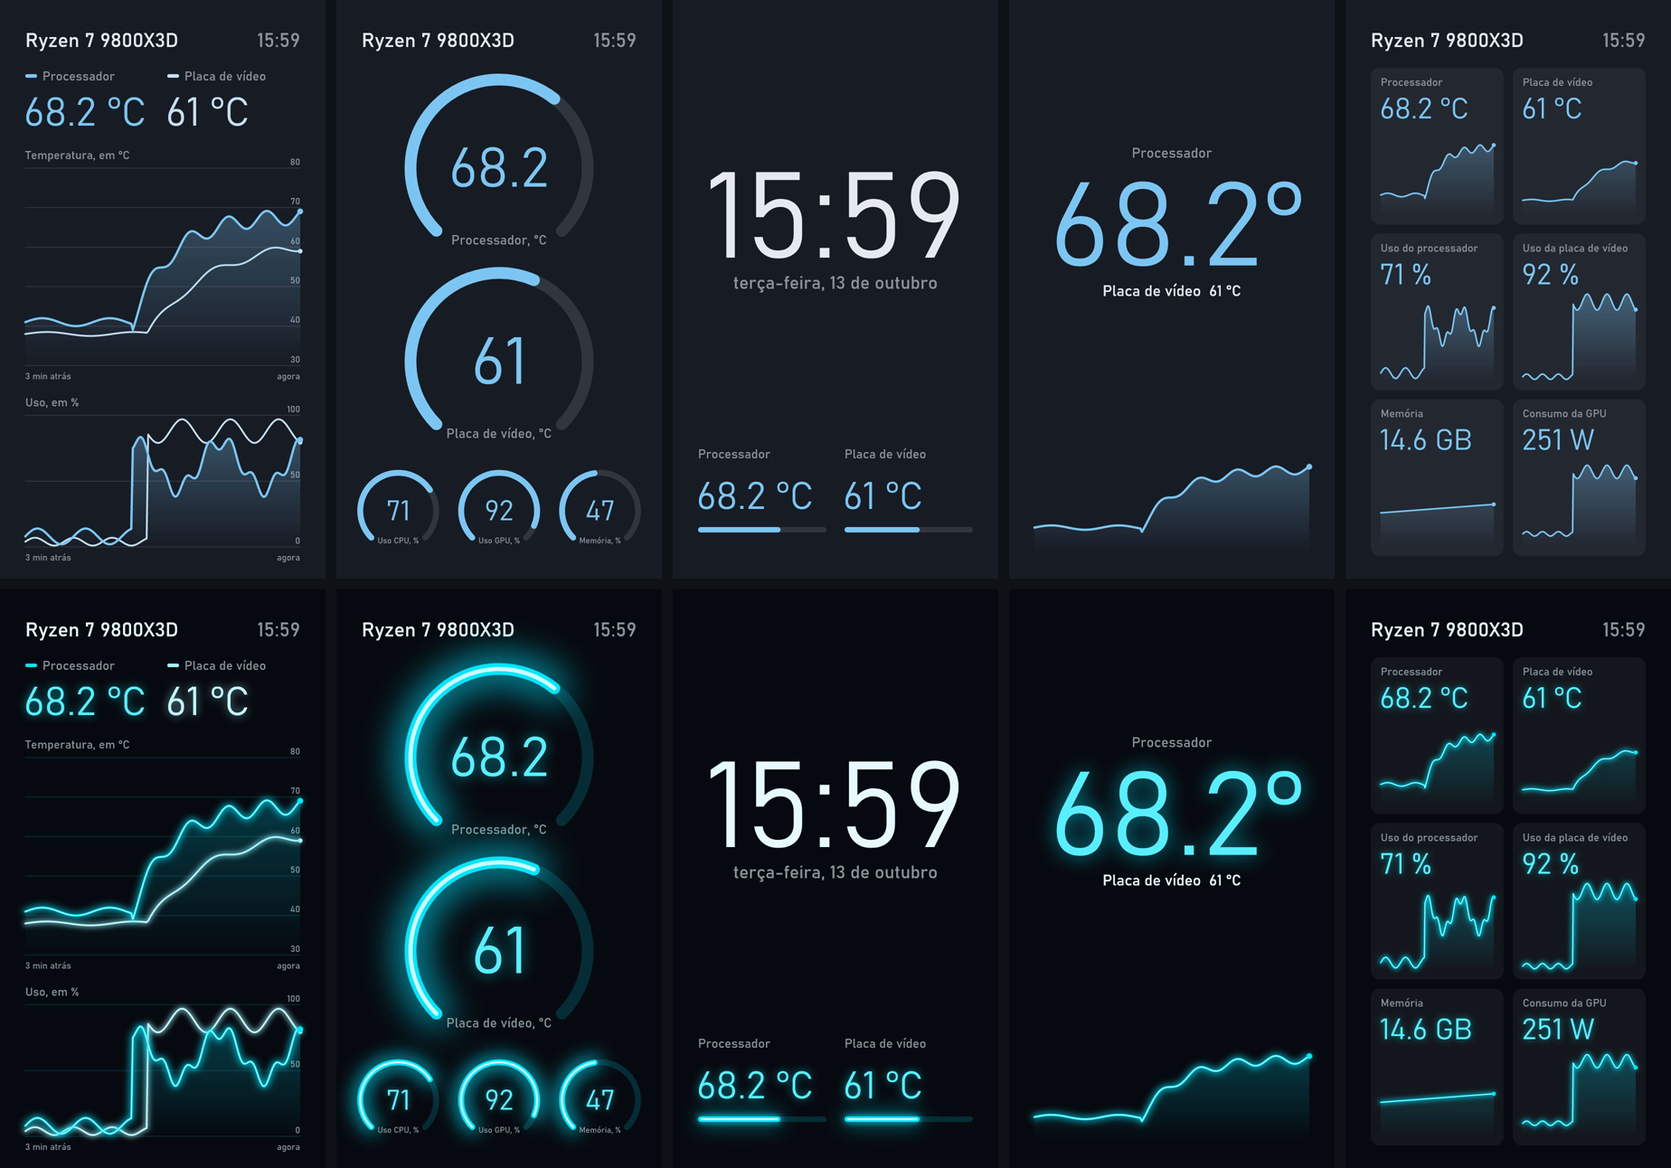
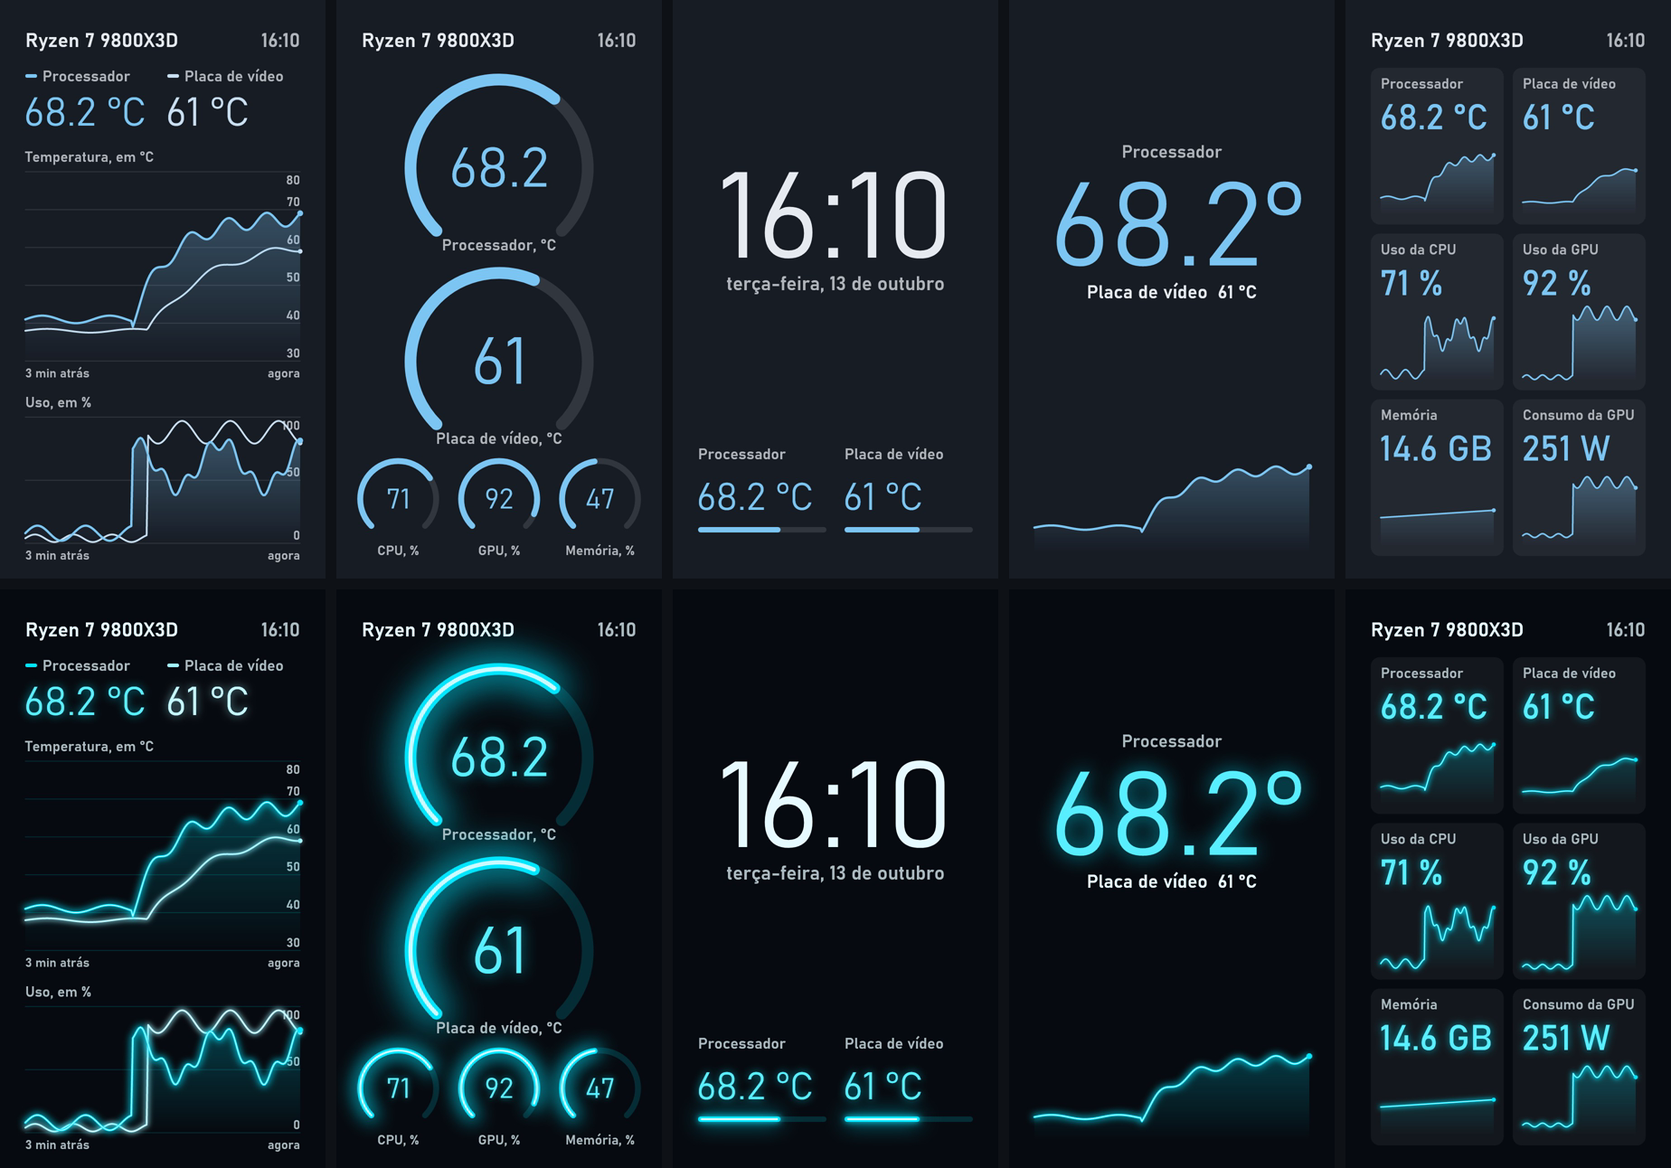
Tela: letras pequenas maiores, mais grossas e com mais contraste
Rotulos e valores pequenos de todas as paginas cresceram cerca de 30 %, passam
a usar o peso SemiBold abaixo de 46 px e a cor dos rotulos ficou mais perto da
do texto. Nos medidores pequenos o rotulo foi para baixo do arco. Quadros
parados vao em JPEG de qualidade 95.

diff --git a/app/Services/LcdRendererStyles.cs b/app/Services/LcdRendererStyles.cs
@@ -93,7 +93,7 @@ public sealed partial class LcdRenderer
         DrawLegendValue(canvas, Margin, 150, "Processador", FormatTemperature(sensors.CpuTemperature, 1) + " °C", cpuColor);
         DrawLegendValue(canvas, Margin + half + 10, 150, "Placa de vídeo", FormatTemperature(sensors.Gpu.Temperature, 0) + " °C", gpuColor);
 
-        float top = 372, bottom = h - 70;
+        float top = 380, bottom = h - 78;
         SKRect temps, loads;
         // Sem altura para empilhar (tela deitada ou quadrada), os dois gráficos ficam lado a lado.
         if (wide || h < 1000)
@@ -104,19 +104,19 @@ public sealed partial class LcdRenderer
         }
         else
         {
-            const float gap = 110;
+            const float gap = 124;
             float middle = top + (bottom - top - gap) * 0.6f;
             temps = new SKRect(Margin, top, right, middle);
             loads = new SKRect(Margin, middle + gap, right, bottom);
         }
 
         (float min, float max) = TemperatureRange(history);
-        DrawText(canvas, "Temperatura, em °C", temps.Left, temps.Top - 20, 26, _muted, _regular);
+        DrawText(canvas, "Temperatura, em °C", temps.Left, temps.Top - 22, 32, _muted, _regular);
         DrawChartFrame(canvas, temps, min, max, max - min > 60 ? 20 : 10);
         DrawSeries(canvas, temps, history.GpuTemp, min, max, gpuColor, 4, fill: false);
         DrawSeries(canvas, temps, history.CpuTemp, min, max, cpuColor, 5, fill: true);
 
-        DrawText(canvas, "Uso, em %", loads.Left, loads.Top - 20, 26, _muted, _regular);
+        DrawText(canvas, "Uso, em %", loads.Left, loads.Top - 22, 32, _muted, _regular);
         DrawChartFrame(canvas, loads, 0, 100, 50);
         DrawSeries(canvas, loads, history.GpuLoad, 0, 100, gpuColor, 4, fill: false);
         DrawSeries(canvas, loads, history.CpuLoad, 0, 100, _accent, 5, fill: true);
@@ -127,7 +127,7 @@ public sealed partial class LcdRenderer
         // A pastilha na cor da linha liga o número à série do gráfico.
         _paint.Color = color;
         canvas.DrawRoundRect(x, top + 14, 26, 8, 4, 4, _paint);
-        DrawText(canvas, label, x + 38, top + 28, 28, _muted, _regular);
+        DrawText(canvas, label, x + 38, top + 30, 34, _muted, _regular);
         DrawText(canvas, value, x - 3, top + 128, 88, color, _light);
     }
 
@@ -168,11 +168,17 @@ public sealed partial class LcdRenderer
         {
             float y = area.Bottom - area.Height * (value - min) / (max - min);
             canvas.DrawLine(area.Left, y, area.Right, y, _stroke);
-            DrawText(canvas, value.ToString("0", CultureInfo.InvariantCulture), area.Right, y - 7, 20, _muted, _regular, SKTextAlign.Right);
+            // O valor fica em cima da linha; o da linha do topo, embaixo, para não encostar no título.
+            bool isTop = value + step > max + 0.01f;
+            float baseline = isTop ? y + 28 : y - 8;
+            // Em gráfico baixo, o valor do topo cairia em cima do da linha seguinte: fica sem.
+            if (isTop && area.Height * step / (max - min) < 60)
+                continue;
+            DrawText(canvas, value.ToString("0", CultureInfo.InvariantCulture), area.Right, baseline, 28, _muted, _regular, SKTextAlign.Right);
         }
 
-        DrawText(canvas, "3 min atrás", area.Left, area.Bottom + 30, 20, _muted, _regular);
-        DrawText(canvas, "agora", area.Right, area.Bottom + 30, 20, _muted, _regular, SKTextAlign.Right);
+        DrawText(canvas, "3 min atrás", area.Left, area.Bottom + 36, 28, _muted, _regular);
+        DrawText(canvas, "agora", area.Right, area.Bottom + 36, 28, _muted, _regular, SKTextAlign.Right);
     }
 
     /// <summary>
@@ -275,7 +281,7 @@ public sealed partial class LcdRenderer
             // Em pé: os dois medidores grandes um embaixo do outro.
             DrawGauge(canvas, w / 2, 372, 196, 26, cpuFraction, cpuColor, FormatTemperature(sensors.CpuTemperature, 1), "Processador, °C");
             DrawGauge(canvas, w / 2, 800, 196, 26, gpuFraction, gpuColor, FormatTemperature(gpu.Temperature, 0), "Placa de vídeo, °C");
-            smallY = h - 150;
+            smallY = h - 176;
             smallRadius = 84;
         }
         else
@@ -284,21 +290,24 @@ public sealed partial class LcdRenderer
             float y = 150 + radius;
             DrawGauge(canvas, w * 0.28f, y, radius, 22, cpuFraction, cpuColor, FormatTemperature(sensors.CpuTemperature, 1), "Processador, °C");
             DrawGauge(canvas, w * 0.72f, y, radius, 22, gpuFraction, gpuColor, FormatTemperature(gpu.Temperature, 0), "Placa de vídeo, °C");
-            smallRadius = Math.Min(64, (h - y - radius - 40) / 2.1f);
-            smallY = h - 40 - smallRadius;
+            smallRadius = Math.Min(64, (h - y - radius - 90) / 2.1f);
+            smallY = h - 72 - smallRadius;
         }
 
         float? ram = sensors.RamUsedGb / sensors.RamTotalGb;
-        DrawGauge(canvas, w * 0.19f, smallY, smallRadius, 13, sensors.CpuLoad / 100, _accent, Number(sensors.CpuLoad), "Uso CPU, %");
-        DrawGauge(canvas, w * 0.5f, smallY, smallRadius, 13, gpu.Load / 100, _accent, Number(gpu.Load), "Uso GPU, %");
-        DrawGauge(canvas, w * 0.81f, smallY, smallRadius, 13, ram, _accent, Number(ram * 100), "Memória, %");
+        DrawGauge(canvas, w * 0.19f, smallY, smallRadius, 13, sensors.CpuLoad / 100, _accent, Number(sensors.CpuLoad), "CPU, %", labelBelow: true);
+        DrawGauge(canvas, w * 0.5f, smallY, smallRadius, 13, gpu.Load / 100, _accent, Number(gpu.Load), "GPU, %", labelBelow: true);
+        DrawGauge(canvas, w * 0.81f, smallY, smallRadius, 13, ram, _accent, Number(ram * 100), "Memória, %", labelBelow: true);
     }
 
     private static string Number(float? value) => value is float v && !float.IsNaN(v) ? v.ToString("0", CultureInfo.InvariantCulture) : "—";
 
-    /// <summary>Medidor em arco de 270°, com o valor no meio e o rótulo na abertura de baixo.</summary>
+    /// <summary>
+    /// Medidor em arco de 270°, com o valor no meio. O rótulo vai na abertura de baixo do arco; nos
+    /// medidores pequenos ele não caberia ali em tamanho legível e vai embaixo do medidor.
+    /// </summary>
     private void DrawGauge(SKCanvas canvas, float cx, float cy, float radius, float thickness, float? fraction,
-        SKColor color, string value, string label)
+        SKColor color, string value, string label, bool labelBelow = false)
     {
         var box = new SKRect(cx - radius, cy - radius, cx + radius, cy + radius);
         using (var track = new SKPath())
@@ -318,7 +327,10 @@ public sealed partial class LcdRenderer
 
         float size = radius * (value.Length > 3 ? 0.62f : 0.74f);
         DrawText(canvas, value, cx, cy + size * 0.34f, size, color, _light, SKTextAlign.Center);
-        DrawText(canvas, label, cx, cy + radius * 0.86f, Math.Max(18, radius * 0.15f), _muted, _regular, SKTextAlign.Center);
+        if (labelBelow)
+            DrawText(canvas, label, cx, cy + radius + 40, 30, _muted, _regular, SKTextAlign.Center);
+        else
+            DrawText(canvas, label, cx, cy + radius * 0.93f, Math.Max(30, radius * 0.18f), _muted, _regular, SKTextAlign.Center);
     }
 
     // ---------- Relógio ----------
@@ -336,7 +348,7 @@ public sealed partial class LcdRenderer
         // A hora na cor do texto: aqui ela é o assunto, e a cor de destaque fica para as temperaturas.
         DrawText(canvas, content.Time.ToString("HH:mm"), w / 2, baseline, size, _text, _light, SKTextAlign.Center);
         string date = content.Time.ToString("dddd, d 'de' MMMM", Portuguese);
-        DrawText(canvas, date, w / 2, baseline + Math.Max(54, size * 0.26f), Math.Max(30, size * 0.15f), _muted, _regular, SKTextAlign.Center);
+        DrawText(canvas, date, w / 2, baseline + Math.Max(58, size * 0.27f), Math.Max(38, size * 0.16f), _muted, _regular, SKTextAlign.Center);
 
         float top = h - block, half = (w - 2 * Margin - 40) / 2;
         DrawClockTemperature(canvas, Margin, top, half, "Processador", sensors.CpuTemperature, 1,
@@ -349,8 +361,8 @@ public sealed partial class LcdRenderer
         int decimals, float warm, float hot, float max)
     {
         SKColor color = TemperatureColor(temperature, warm, hot);
-        DrawText(canvas, label, x, top + 34, 28, _muted, _regular);
-        DrawText(canvas, FormatTemperature(temperature, decimals) + " °C", x - 3, top + 146, 84, color, _light);
+        DrawText(canvas, label, x, top + 36, 34, _muted, _regular);
+        DrawText(canvas, FormatTemperature(temperature, decimals) + " °C", x - 3, top + 148, 84, color, _light);
         float? fraction = temperature is float t ? Math.Max(0.02f, (t - 20) / (max - 20)) : null;
         DrawBar(canvas, x, top + 186, width, 12, fraction, color);
     }
@@ -367,10 +379,10 @@ public sealed partial class LcdRenderer
         float size = Math.Min(w * 0.36f, free * 0.5f);
         float baseline = free * 0.52f + size * 0.34f;
 
-        DrawText(canvas, "Processador", w / 2, baseline - size * 0.92f, Math.Max(30, size * 0.12f), _muted, _regular, SKTextAlign.Center);
+        DrawText(canvas, "Processador", w / 2, baseline - size * 0.92f, Math.Max(38, size * 0.15f), _muted, _regular, SKTextAlign.Center);
         DrawText(canvas, FormatTemperature(sensors.CpuTemperature, 1) + "°", w / 2 + size * 0.05f, baseline, size, color, _light, SKTextAlign.Center);
         string gpu = "Placa de vídeo  " + FormatTemperature(sensors.Gpu.Temperature, 0) + " °C";
-        DrawText(canvas, gpu, w / 2, baseline + Math.Max(60, size * 0.26f), Math.Max(32, size * 0.13f), _text, _regular, SKTextAlign.Center);
+        DrawText(canvas, gpu, w / 2, baseline + Math.Max(66, size * 0.28f), Math.Max(40, size * 0.16f), _text, _regular, SKTextAlign.Center);
 
         // Só a linha, sem grade nem eixo: mostra para onde a temperatura está indo.
         (float min, float max) = TemperatureRange(history);
@@ -397,8 +409,8 @@ public sealed partial class LcdRenderer
                 TemperatureColor(sensors.CpuTemperature, _temps.CpuWarm, _temps.CpuHot)),
             ("Placa de vídeo", FormatTemperature(gpu.Temperature, 0) + " °C", history.GpuTemp, min, max,
                 TemperatureColor(gpu.Temperature, _temps.GpuWarm, _temps.GpuHot)),
-            ("Uso do processador", Percent(sensors.CpuLoad), history.CpuLoad, 0, 100, _accent),
-            ("Uso da placa de vídeo", Percent(gpu.Load), history.GpuLoad, 0, 100, _accent),
+            ("Uso da CPU", Percent(sensors.CpuLoad), history.CpuLoad, 0, 100, _accent),
+            ("Uso da GPU", Percent(gpu.Load), history.GpuLoad, 0, 100, _accent),
             ("Memória", sensors.RamUsedGb is float used ? string.Create(CultureInfo.InvariantCulture, $"{used:0.0} GB") : "—",
                 history.Ram, 0, 100, _accent),
             ("Consumo da GPU", gpu.Watts is float now ? $"{now:0} W" : "—", history.GpuWatts, 0, watts, _accent),
@@ -418,12 +430,16 @@ public sealed partial class LcdRenderer
             _paint.Color = tileColor;
             canvas.DrawRoundRect(x, y, tileWidth, tileHeight, 20, 20, _paint);
 
-            float valueSize = Math.Min(64, tileHeight * 0.24f);
-            DrawText(canvas, tile.Label, x + 22, y + 40, 24, _muted, _regular);
-            DrawText(canvas, tile.Value, x + 20, y + 48 + valueSize, valueSize, tile.Color, _light);
+            // Rótulo e valor em tamanho de leitura; o minigráfico fica com o que sobra.
+            float valueSize = Math.Min(78, tileHeight * 0.26f);
+            DrawText(canvas, tile.Label, x + 22, y + 46, 32, _muted, _regular);
+            DrawText(canvas, tile.Value, x + 20, y + 58 + valueSize, valueSize, tile.Color, _regular);
 
-            var area = new SKRect(x + 22, y + 64 + valueSize, x + tileWidth - 22, y + tileHeight - 22);
-            if (area.Height > 24)
+            var area = new SKRect(x + 22, y + 78 + valueSize, x + tileWidth - 22, y + tileHeight - 22);
+            // Bloco baixo: não sobra altura embaixo do valor, então o minigráfico vai ao lado dele.
+            if (area.Height < 44)
+                area = new SKRect(x + tileWidth * 0.62f, y + 66, x + tileWidth - 22, y + tileHeight - 22);
+            if (area.Height > 20)
                 DrawSeries(canvas, area, tile.Series, tile.Min, tile.Max, tile.Color, 3.5f, fill: true);
         }
     }

diff --git a/app/Services/LcdRenderer.cs b/app/Services/LcdRenderer.cs
@@ -117,6 +117,9 @@ public sealed partial class LcdRenderer : IDisposable
     // Placas de vídeo costumam se limitar perto de 90 °C; o limite do processador vem no conteúdo.
     private const float GpuMax = 90;
 
+    // Abaixo deste tamanho o texto é desenhado em peso maior, para ler à distância.
+    private const float SmallText = 46;
+
     // Avisos de temperatura não seguem o tema: precisam continuar reconhecíveis. Em fundo claro
     // usam versões mais escuras, senão o laranja some.
     private static readonly SKColor EmberOnDark = SKColor.Parse("#F59A3C"), CriticalOnDark = SKColor.Parse("#F0605A");
@@ -136,6 +139,9 @@ public sealed partial class LcdRenderer : IDisposable
     private readonly SKTypeface _regular = SKTypeface.FromFamilyName("Bahnschrift", SKFontStyle.Normal);
     private readonly SKTypeface _light = SKTypeface.FromFamilyName("Bahnschrift",
         SKFontStyleWeight.Light, SKFontStyleWidth.Normal, SKFontStyleSlant.Upright);
+    // Texto pequeno vai em peso maior: de longe, traço fino some antes de letra pequena.
+    private readonly SKTypeface _semibold = SKTypeface.FromFamilyName("Bahnschrift",
+        SKFontStyleWeight.SemiBold, SKFontStyleWidth.Normal, SKFontStyleSlant.Upright);
     private readonly SKPaint _paint = new() { IsAntialias = true };
 
     private SKColor _text, _accent, _muted, _track;
@@ -166,7 +172,7 @@ public sealed partial class LcdRenderer : IDisposable
         _accent = new SKColor(style.Theme.Accent);
         _neon = style.Theme.Neon;
         // Em fundo claro os rótulos precisam ficar mais perto da cor do texto para dar leitura.
-        _muted = Blend(background, _text, light ? 0.72f : 0.58f);
+        _muted = Blend(background, _text, light ? 0.8f : 0.74f);
         _track = Blend(background, _text, 0.13f);
         // Tubo apagado: quase some no fundo, com um resto da cor do tema.
         if (_neon)
@@ -284,9 +290,10 @@ public sealed partial class LcdRenderer : IDisposable
                 canvas.Save();
                 canvas.Translate(0, 150);
                 canvas.Scale(0.5f);
-                DrawCpuTemperature(canvas, content, 0);
+                // Desenhadas pela metade: o rótulo vai maior, para não ficar ilegível.
+                DrawCpuTemperature(canvas, content, 0, labelSize: 66);
                 canvas.Translate(ColumnWidth, 0);
-                DrawGpuTemperature(canvas, sensors.Gpu, 0);
+                DrawGpuTemperature(canvas, sensors.Gpu, 0, labelSize: 66);
                 canvas.Restore();
 
                 if (page == LcdPage.Curve)
@@ -309,11 +316,11 @@ public sealed partial class LcdRenderer : IDisposable
         canvas.Restore();
     }
 
-    private void DrawCpuTemperature(SKCanvas canvas, LcdContent content, float top) =>
-        DrawBigTemperature(canvas, "Processador", content.Sensors.CpuTemperature, top, decimals: 1, _temps.CpuWarm, _temps.CpuHot, content.CpuLimit);
+    private void DrawCpuTemperature(SKCanvas canvas, LcdContent content, float top, float labelSize = 38) =>
+        DrawBigTemperature(canvas, "Processador", content.Sensors.CpuTemperature, top, decimals: 1, _temps.CpuWarm, _temps.CpuHot, content.CpuLimit, labelSize);
 
-    private void DrawGpuTemperature(SKCanvas canvas, GpuReading gpu, float top) =>
-        DrawBigTemperature(canvas, "Placa de vídeo", gpu.Temperature, top, decimals: 0, _temps.GpuWarm, _temps.GpuHot, GpuMax);
+    private void DrawGpuTemperature(SKCanvas canvas, GpuReading gpu, float top, float labelSize = 38) =>
+        DrawBigTemperature(canvas, "Placa de vídeo", gpu.Temperature, top, decimals: 0, _temps.GpuWarm, _temps.GpuHot, GpuMax, labelSize);
 
     /// <summary>As linhas de sensores a partir de <paramref name="top"/>, quantas couberem até <paramref name="bottom"/>.</summary>
     private void DrawSensorRows(SKCanvas canvas, SensorSnapshot sensors, float top, float bottom)
@@ -339,10 +346,11 @@ public sealed partial class LcdRenderer : IDisposable
     }
 
     private void DrawBigTemperature(SKCanvas canvas, string label, float? temperature, float top,
-        int decimals, float warm, float hot, float max)
+        int decimals, float warm, float hot, float max, float labelSize = 38)
     {
         SKColor color = TemperatureColor(temperature, warm, hot);
-        DrawText(canvas, label, Left, top + 34, 32, _muted, _regular);
+        // Rótulo maior sobe um pouco, para não encostar no número.
+        DrawText(canvas, label, Left, top + 36 - (labelSize - 38) * 0.6f, labelSize, _muted, _regular);
 
         const float size = 190;
         string value = FormatTemperature(temperature, decimals);
@@ -360,8 +368,8 @@ public sealed partial class LcdRenderer : IDisposable
 
     private void DrawSensorRow(SKCanvas canvas, ref float y, string label, string value, float? fraction)
     {
-        DrawText(canvas, label, Left, y, 28, _muted, _regular);
-        DrawText(canvas, value, Right, y, 34, _text, _regular, SKTextAlign.Right);
+        DrawText(canvas, label, Left, y, 36, _muted, _regular);
+        DrawText(canvas, value, Right, y, 42, _text, _regular, SKTextAlign.Right);
         if (fraction is not null)
             DrawBar(canvas, Left, y + 20, Right - Left, 10, fraction, _accent);
         y += 104;
@@ -374,15 +382,15 @@ public sealed partial class LcdRenderer : IDisposable
         float min = content.MarginMin, max = CpuTuner.MaxMargin;
 
         DrawText(canvas, "Curve Optimizer", Left, top, 40, _text, _regular);
-        DrawText(canvas, "margem", marginRight, top, 26, _muted, _regular, SKTextAlign.Right);
-        DrawText(canvas, "MHz", Right, top, 26, _muted, _regular, SKTextAlign.Right);
+        DrawText(canvas, "margem", marginRight, top, 32, _muted, _regular, SKTextAlign.Right);
+        DrawText(canvas, "MHz", Right, top, 32, _muted, _regular, SKTextAlign.Right);
 
         int count = content.Margins.Length;
         if (count == 0)
             return;
 
         float rowHeight = Math.Min(98, Math.Max(10, available - 30) / count);
-        float fontSize = Math.Min(44, rowHeight * 0.5f);
+        float fontSize = Math.Min(44, rowHeight * 0.62f);
         float thickness = Math.Min(14, rowHeight * 0.2f);
         float zero = barLeft + (barRight - barLeft) * (0 - min) / (max - min);
 
@@ -455,7 +463,7 @@ public sealed partial class LcdRenderer : IDisposable
     private void DrawSmallTemperature(SKCanvas canvas, string label, float? temperature, float x,
         int decimals, float warm, float hot)
     {
-        DrawText(canvas, label, x, 180, 28, _muted, _regular);
+        DrawText(canvas, label, x, 180, 34, _muted, _regular);
         DrawText(canvas, FormatTemperature(temperature, decimals) + " °C", x - 3, 262, 78, TemperatureColor(temperature, warm, hot), _light);
     }
 
@@ -508,6 +516,9 @@ public sealed partial class LcdRenderer : IDisposable
     private void DrawText(SKCanvas canvas, string text, float x, float y, float size, SKColor color,
         SKTypeface typeface, SKTextAlign align = SKTextAlign.Left)
     {
+        if (ReferenceEquals(typeface, _regular) && size < SmallText)
+            typeface = _semibold;
+
         using var font = new SKFont(typeface, size) { Subpixel = true };
         if (_halo is SKColor halo)
         {
@@ -564,6 +575,7 @@ public sealed partial class LcdRenderer : IDisposable
         _paint.Dispose();
         _stroke.Dispose();
         _regular.Dispose();
+        _semibold.Dispose();
         _light.Dispose();
         _bitmap.Dispose();
         _panel?.Dispose();

diff --git a/app/ViewModels/MainViewModel.Layout.cs b/app/ViewModels/MainViewModel.Layout.cs
@@ -156,7 +156,7 @@ public partial class MainViewModel
     [RelayCommand]
     private void ApplyLayoutTemplate()
     {
-        LcdElement Label(string text, double y) => new() { Kind = LcdElementKind.Text, X = 56, Y = y, Width = 350, Height = 40, Text = text, Color = 0xFF95A0B5 };
+        LcdElement Label(string text, double y) => new() { Kind = LcdElementKind.Text, X = 56, Y = y, Width = 400, Height = 44, Text = text, Color = 0xFFB8C0CF };
         LcdElement Value(int sensor, double y, double height, int align = 0, double x = 56, double width = 608) =>
             new() { Kind = LcdElementKind.Sensor, X = x, Y = y, Width = width, Height = height, Sensor = sensor, Align = align };
         LcdElement Bar(int sensor, double y) => new() { Kind = LcdElementKind.Bar, X = 56, Y = y, Width = 608, Height = 12, Sensor = sensor };

diff --git a/app/Services/LcdService.cs b/app/Services/LcdService.cs
@@ -29,7 +29,7 @@ public sealed record LcdStats(double FramesPerSecond, int FrameKilobytes, int Qu
 public sealed class LcdService : IDisposable
 {
     private static readonly TimeSpan KeepAliveInterval = TimeSpan.FromSeconds(8);
-    private const int StillQuality = 90, MinQuality = 40, MaxAnimatedQuality = 85;
+    private const int StillQuality = 95, MinQuality = 40, MaxAnimatedQuality = 85;
 
     private readonly LcdRenderer _renderer = new();
     private readonly Thread _thread;

diff --git a/docs/guia.md b/docs/guia.md
@@ -73,6 +73,8 @@ Há páginas prontas, estilos de painel e uma página livre:
 - **Minimalista**: só a temperatura do processador, enorme, com a linha dos últimos minutos.
 - **Blocos com minigráficos**: seis blocos, cada um com o valor e a linha dos últimos minutos.
 
+Os rótulos e valores pequenos de todas as páginas são desenhados em letra maior e mais grossa, para ler a tela a média distância.
+
 ![Página de temperaturas, página do Curve Optimizer e o alerta de temperatura](imagens/paginas-da-tela.png)
 
 A imagem acima mostra a página de temperaturas, a página do Curve Optimizer e a tela durante um alerta de temperatura.
